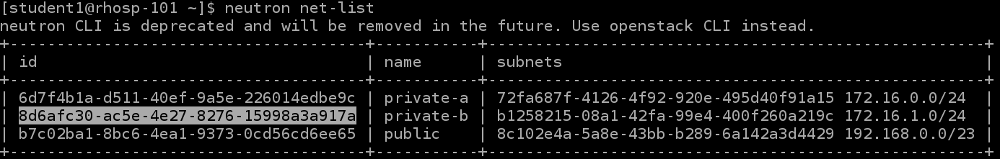
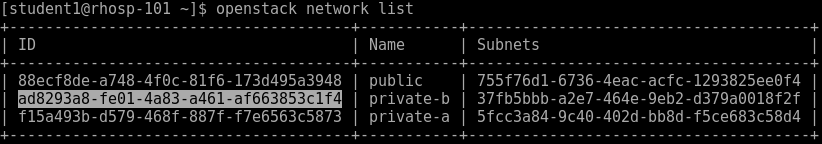
Update rhosp 101 workshop with RHOSP 11 content and some corrections to wording and screen shots

Changed region(s): [[0.0, 0.25, 1.0, 0.8889], [0.0, 0.0, 1.0, 0.2222], [0.0, 0.9167, 1.0, 0.9722]]

diff --git a/content/workshops/rhosp_101/9_heat.md b/content/workshops/rhosp_101/9_heat.md
@@ -25,13 +25,13 @@ On Linux or Mac, you can just use your favorite terminal.
 On Windows, you will need to download [putty](https://the.earth.li/~sgtatham/putty/latest/w64/putty.exe) if you don't already have it. This is an exe file that does not need to be installed. Just run.
 {{% /alert %}}
 
-> On Linux or Mac, in your terminal, ssh to rhshadowbox.hopto.org on port 1122
+> On Linux or Mac, in your terminal, ssh to rhshadowbox.hopto.org on port 22
 
 ```
-$ ssh studentX@rhshadowbox.hopto.org -p 1122
+$ ssh studentX@192.168.1.77
 ```
 
-If on Windows, run putty, enter **rhshadowbox.hopto.org** as the host and **1122** as the port.
+If on Windows, run putty, enter **192.168.1.77** as the host and **22** as the port.
 
 You will get asked if you are sure you want to connect. Type **yes** and hit enter.
 
@@ -48,12 +48,12 @@ $ source studentXrc
 > Verify that you are connected by running nova list
 
 ```
-$ nova list
+$ openstack server list
 ```
 
-You should see the two instances you created in the previous lab.
+You should see the instances you created in the previous labs.
 
-{{< figure src="../images/lab7-using-clis-1.png" title="Lab 7 Figure 1: Logging into CLI system and Verifying Connectivity to OpenStack" >}}
+{{< figure src="../images/lab8-heat-1.png" title="Lab 8 Figure 1: Logging into CLI system and Verifying Connectivity to OpenStack" >}}
 
 ## Now Let's Examine the Heat Template
 
@@ -70,7 +70,7 @@ parameters:
     default: public
   image:
     type: string
-    default: rhel73
+    default: rhel74
   flavor:
     type: string
     default: m1.small
@@ -121,12 +121,12 @@ resources:
 > Let's Launch a Heat Stack with this Template
 
 ```
-$ openstack stack create --parameter keypair=studentX --parameter image=rhel73 -t heat-example.yaml studentX-stack
+$ openstack stack create --parameter keypair=studentX --parameter image=rhel74 -t heat-example.yaml studentX-stack
 ```
 
 Here is an example run.
 ```
-[student1@rhosp-101 ~]$ openstack stack create --parameter keypair=student1 --parameter image=rhel73 -t heat-example.yaml student1-stack
+[student1@rhosp-101 ~]$ openstack stack create --parameter keypair=student1 --parameter image=rhel74 -t heat-example.yaml student1-stack
 +---------------------+--------------------------------------+
 | Field               | Value                                |
 +---------------------+--------------------------------------+
@@ -161,13 +161,13 @@ Every 2.0s: openstack stack list                                                
 > Navigate to Orchestration -> Stacks using the second level navigation tabs  
 > Click on **studentX-stack**
 
-{{< figure src="../images/lab8-heat-1.png" title="Lab 8 Figure 1: Heat Stack Topology for the New student1-stack" >}}
+{{< figure src="../images/lab8-heat-2.png" title="Lab 8 Figure 2: Heat Stack Topology for the New student1-stack" >}}
 
 # Examining Project Network Topology
 
 > Navigate to Network -> Network Topology using the second level navigation tabs.
 
-{{< figure src="../images/lab8-heat-2.png" title="Lab 8 Figure 2: Neutron Network Topology" >}}
+{{< figure src="../images/lab8-heat-3.png" title="Lab 8 Figure 3: Neutron Network Topology" >}}
 
 # Summary
 

diff --git a/content/workshops/rhosp_101/8_using_the_cli.md b/content/workshops/rhosp_101/8_using_the_cli.md
@@ -34,13 +34,13 @@ On Linux or Mac, you can just use your favorite terminal.
 On Windows, you will need to download [putty](https://the.earth.li/~sgtatham/putty/latest/w64/putty.exe) if you don't already have it. This is an exe file that does not need to be installed. Just run.
 {{% /alert %}}
 
-> On Linux or Mac, in your terminal, ssh to rhshadowbox.hopto.org on port 1122
+> On Linux or Mac, in your terminal, ssh to 192.168.1.77 on port 22
 
 ```
-$ ssh studentX@rhshadowbox.hopto.org -p 1122
+$ ssh studentX@192.168.1.77
 ```
 
-If on Windows, run putty, enter **rhshadowbox.hopto.org** as the host and **1122** as the port.
+If on Windows, run putty, enter **192.168.1.77** as the host and **22** as the port.
 
 You will get asked if you are sure you want to connect. Type **yes** and hit enter.
 
@@ -57,7 +57,7 @@ $ source studentXrc
 > Verify that you are connected by running nova list
 
 ```
-$ nova list
+$ openstack server list
 ```
 
 You should see the two instances you created in the previous lab.
@@ -123,7 +123,7 @@ $ openstack network create private-b
 > Then let's create the private-b subnet
 
 ```
-$ openstack subnet create --network private-b --subnet-range 172.16.1.0/24 --dns-nameserver 192.168.0.1 private-b-subnet
+$ openstack subnet create --network private-b --subnet-range 172.16.1.0/24 --dns-nameserver 192.168.0.6 private-b-subnet
 ```
 
 {{< figure src="../images/lab7-using-clis-7.png" title="Lab 7 Figure 7: Adding a Subnet to the Network in the Project" >}}
@@ -143,13 +143,13 @@ $ openstack subnet list
 > First we need to get the network UUID for private-b network
 
 ```
-$ neutron net-list
+$ openstack network list
 ```
 
 {{< figure src="../images/lab7-using-clis-9.png" title="Lab 7 Figure 9: Neutron Network List with the UUID Highlighted for private-b network" >}}
 
 {{% alert info %}}
-Note that your Network UUID will be unique. In this example the value is: 8d6afc30-ac5e-4e27-8276-15998a3a917a
+Note that your Network UUID will be unique. In this example the value is: ad8293a8-fe01-4a83-a461-af663853c1f4
 {{% /alert %}}
 
 > Run the following command to boot a nova instance using the m1.tiny flavor, and the newest cirros image that we uploaded earlier in this lab.  
@@ -164,10 +164,10 @@ $ openstack server create --image studentX-cirros035 --flavor m1.tiny --key-name
 > You can watch nova list to see it go through the provisioning process and become active
 
 ```
-$ watch nova list
+$ watch openstack server list
 ```
 
-{{< figure src="../images/lab7-using-clis-11.png" title="Lab 7 Figure 11: Nova List Showing the New Instance Active" >}}
+{{< figure src="../images/lab7-using-clis-11.png" title="Lab 7 Figure 11: OpenStack Server List Showing the New Instance Active" >}}
 
 # Summary
 

diff --git a/content/workshops/rhosp_101/_index.md b/content/workshops/rhosp_101/_index.md
@@ -9,25 +9,26 @@ menu:
 
 ## Description
 
-Launch your own cloud after this workshop,  which includes software defined networking, software defined storage, managing security groups and using heat to define stacks.  
+During this workshop, you get your first taste of using and operating a Red Hat OpenStack Platform cloud. After the workshop, you will have hands on experience working with software defined networking, software defined storage, managing security groups and using heat to define application stacks.  
 
 ## Who should attend
 
-- System Administrators who intend to implement a Cloud Computing environment
+- System Administrators
 - Architects
 - Developers
 - Technical leads
 - Operations Engineers
 
 ## What you will learn
-Installation of OpenStack
-Neutron Networks
-Managing Security, Images and Instances
-Using Heat
-Software defined Storage, Block and Object
+
+- Working in the OpenStack Dashboard and CLI
+- Managing Neutron Networks and Floating IPs
+- Managing Security Groups, Images and Instances
+- Using Heat for Orchestration
+- Using Software defined block and object Storage
  
 ## Introduction
-This workshop on Red Hat OpenStack Platform is designed as an introduction for system administrators who are intending to implement a cloud computing environment using OpenStack. Students will learn a small taste of how to operate Red Hat OpenStack Platform. In this course will use both Horizon and the unified command-line interface.
+This workshop on Red Hat OpenStack Platform is designed as an introduction for those who are intending to implement a cloud computing environment using OpenStack. Students will learn a small taste of how to operate Red Hat OpenStack Platform. In this course you will use both Horizon and the unified command-line interface.
 Labs
 
 # Workshop Login Info
@@ -45,7 +46,11 @@ Password: Instructor will give out at beginning
 
 # Environment Links
 
-[Red Hat OpenStack Platform Horizon](http://rhshadowbox.hopto.org)
+Your instructor will provide the following:
+
+- URL for OpenStack Dashboard
+- Username and Password
+- Information to access a system via SSH for the CLI lab
 
 # Labs
 

diff --git a/content/workshops/rhosp_101/3_managing_networks.md b/content/workshops/rhosp_101/3_managing_networks.md
@@ -23,7 +23,7 @@ There are two ways to view the project network layout.
 2. Graph which is fun becuase you can drag it and things bounce around :)
 
 {{% alert info %}}
-You will notice that at this point, there is only 1 network named Public. This is an external network that the instructor added as an OpenStack administrator. The public network is shared among all projects and will be utilized in the next lab for managing floating IP addresses. As a project member only, you will not have the ability to modify the public network.
+You will notice that at this point, there is only 1 network named *public*. This is an external network that the instructor added as an OpenStack administrator. The public network is shared among all projects and will be utilized in the next lab for managing floating IP addresses. As a project member only, you will not have the ability to modify the public network.
 {{% /alert %}}
 
 ## Let's Create our First Project Network
@@ -39,7 +39,8 @@ You will notice that at this point, there is only 1 network named Public. This i
 > Enter **private-a-subnet** as the **Subnet Name**  
 > Enter **172.16.0.0/24** as **Network Address**  
 > Leave **IPV4** as the **IP Version**  
-> Leave **Gateway IP** blank and make sure **Disable Gateway** is not checked
+> Leave **Gateway IP** blank and make sure **Disable Gateway** is not checked  
+> Click **Next**
 
 {{< figure src="../images/lab2-neutron-create-network-2.png" title="Lab 2 Figure 3: Create Neutron Subnet" >}}
 
@@ -53,7 +54,7 @@ Be aware that because these project networks are VXLAN tunnels, they can be any 
 
 > Leave **Enable DHCP** checked  
 > Leave **Allocation Pools** empty (we'll use the entire range)  
-> Enter **192.168.0.1** in **DNS Name Servers**  
+> Enter **192.168.0.6** in **DNS Name Servers**  
 > Leave **Host Routes** empty and click **Create**
 
 {{< figure src="../images/lab2-neutron-create-network-3.png" title="Lab 2 Figure 4: Enter Neutron Subnet Details" >}}

diff --git a/content/workshops/rhosp_101/4_managing_floating_ip_addresses.md b/content/workshops/rhosp_101/4_managing_floating_ip_addresses.md
@@ -15,7 +15,10 @@ A private IP address is assigned to an instance's network-interface by the DHCP 
 
 A floating IP address is a service provided by Neutron. It's not using any DHCP service or being set statically within the guest. As a matter of fact the guest's operating system has no idea that it was assigned a floating IP address. The delivery of packets to the interface with the assigned floating address is the responsibility of Neutron's L3 agent. Instances with an assigned floating IP address can be accessed from the public network by the floating IP.
 
-A floating IP address and a private IP address can be used at the same time on a single network-interface. The private IP address is likely to be used for accessing the instance by other instances in private networks while the floating IP address would be used for accessing the instance from public networks. How to configure floating IP range describes Floating IP range document.
+A floating IP address and a private IP address can be used at the same time on a single network-interface. The private IP address is likely to be used for accessing the instance by other instances in private networks while the floating IP address would be used for accessing the instance from public networks. 
+
+You can learn more about the difference between Floating IP and private IP from the RDO website.
+[https://www.rdoproject.org/networking/difference-between-floating-ip-and-private-ip/](https://www.rdoproject.org/networking/difference-between-floating-ip-and-private-ip/)
 
 {{% alert info %}}
 A floating IP range was already created on the public-sub subnet for the public network in our workshop environment.

diff --git a/content/workshops/rhosp_101/5_managing_security_groups.md b/content/workshops/rhosp_101/5_managing_security_groups.md
@@ -11,7 +11,9 @@ A security group is a named collection of network access rules that are used to 
 
 The associated rules in each security group control the traffic to instances in the group. Any incoming traffic that is not matched by a rule is denied access by default. You can add rules to or remove rules from a security group, and you can modify rules for the default and any other security group.
 
-You can modify the rules in a security group to allow access to instances through different ports and protocols. For example, you can modify rules to allow access to instances through SSH, to ping instances, or to allow UDP traffic; for example, for a DNS server running on an instance. You specify the following parameters for rules:
+You can modify the rules in a security group to allow access to instances through different ports and protocols. For example, you can modify rules to allow access to instances through SSH, to ping instances, or to allow UDP traffic.
+
+You specify the following parameters for rules:
 
 **Source of traffic** - Enable traffic to instances from either IP addresses inside the cloud from other group members or from all IP addresses.  
 **Protocol** - Choose TCP for SSH, ICMP for pings, or UDP.  

diff --git a/content/workshops/rhosp_101/10_storage.md b/content/workshops/rhosp_101/10_storage.md
@@ -52,7 +52,7 @@ If you did not, let the intstructor know now
 > On the volume listing row for studentX-vol-1, Click the **down arrow** on the far right hand side of the row  
 > Click **Manage Attachments**  
 > Select **studentX-instance-1** from the **Attach to Instance** drop down  
-> Leave **Device Name** as is
+> Leave **Device Name** as is  
 > Click **Attach Volume**
 
 {{< figure src="../images/lab9-storage-4.png" title="Lab 9 Figure 4: Attach Volume to Instance" >}}
@@ -120,7 +120,7 @@ If you did not, let the intstructor know now
 
 We have just touched the surface of what can be done with storage in this lab. The storage layer in OpenStack is extremely flexible and well developed.
 
-Note that production deployments should always use a shared storage platform as the underpinnings for the OpenStack Storage layers.
+Note that production deployments should always use a shared storage platform as the underpinnings for the OpenStack Storage services.
 
 There is a third storage type that we did not go through in this lab. That is File Share-as-a-Service. Manilla is the OpenStack project name for this service and it is a supported project in Red Hat OpenStack Platform.
 

diff --git a/content/workshops/rhosp_101/fin.md b/content/workshops/rhosp_101/fin.md
@@ -6,7 +6,7 @@ layout: lab
 ---
 
 # That's it!
-Hopefully, these labs provided you some idea of how to perform common tasks within the OpenStack environment.  And hopefully, you have a deeper understanding of how Infrastructure-as-a-Service works.  Please feel free to continue to "kick the tires" in the demo environment we've setup and explore both the web console and the command line clients. These will remain running for a few days after the workshop.
+Hopefully, these labs provided you some idea of how to perform common tasks within the OpenStack environment.  And hopefully, you have a deeper understanding of how Infrastructure-as-a-Service works.
 
 # Get even deeper
 
@@ -19,4 +19,4 @@ Here are some good resources to continue learning OpenStack:
 There are two ways to get started with RDO: TripleO Quickstart and PackStack
 
 * [TripleO Quickstart](https://www.rdoproject.org/tripleo/)
-* [PackStack](https://www.rdoproject.org/install/quickstart/)
+* [PackStack](https://www.rdoproject.org/install/packstack/)
